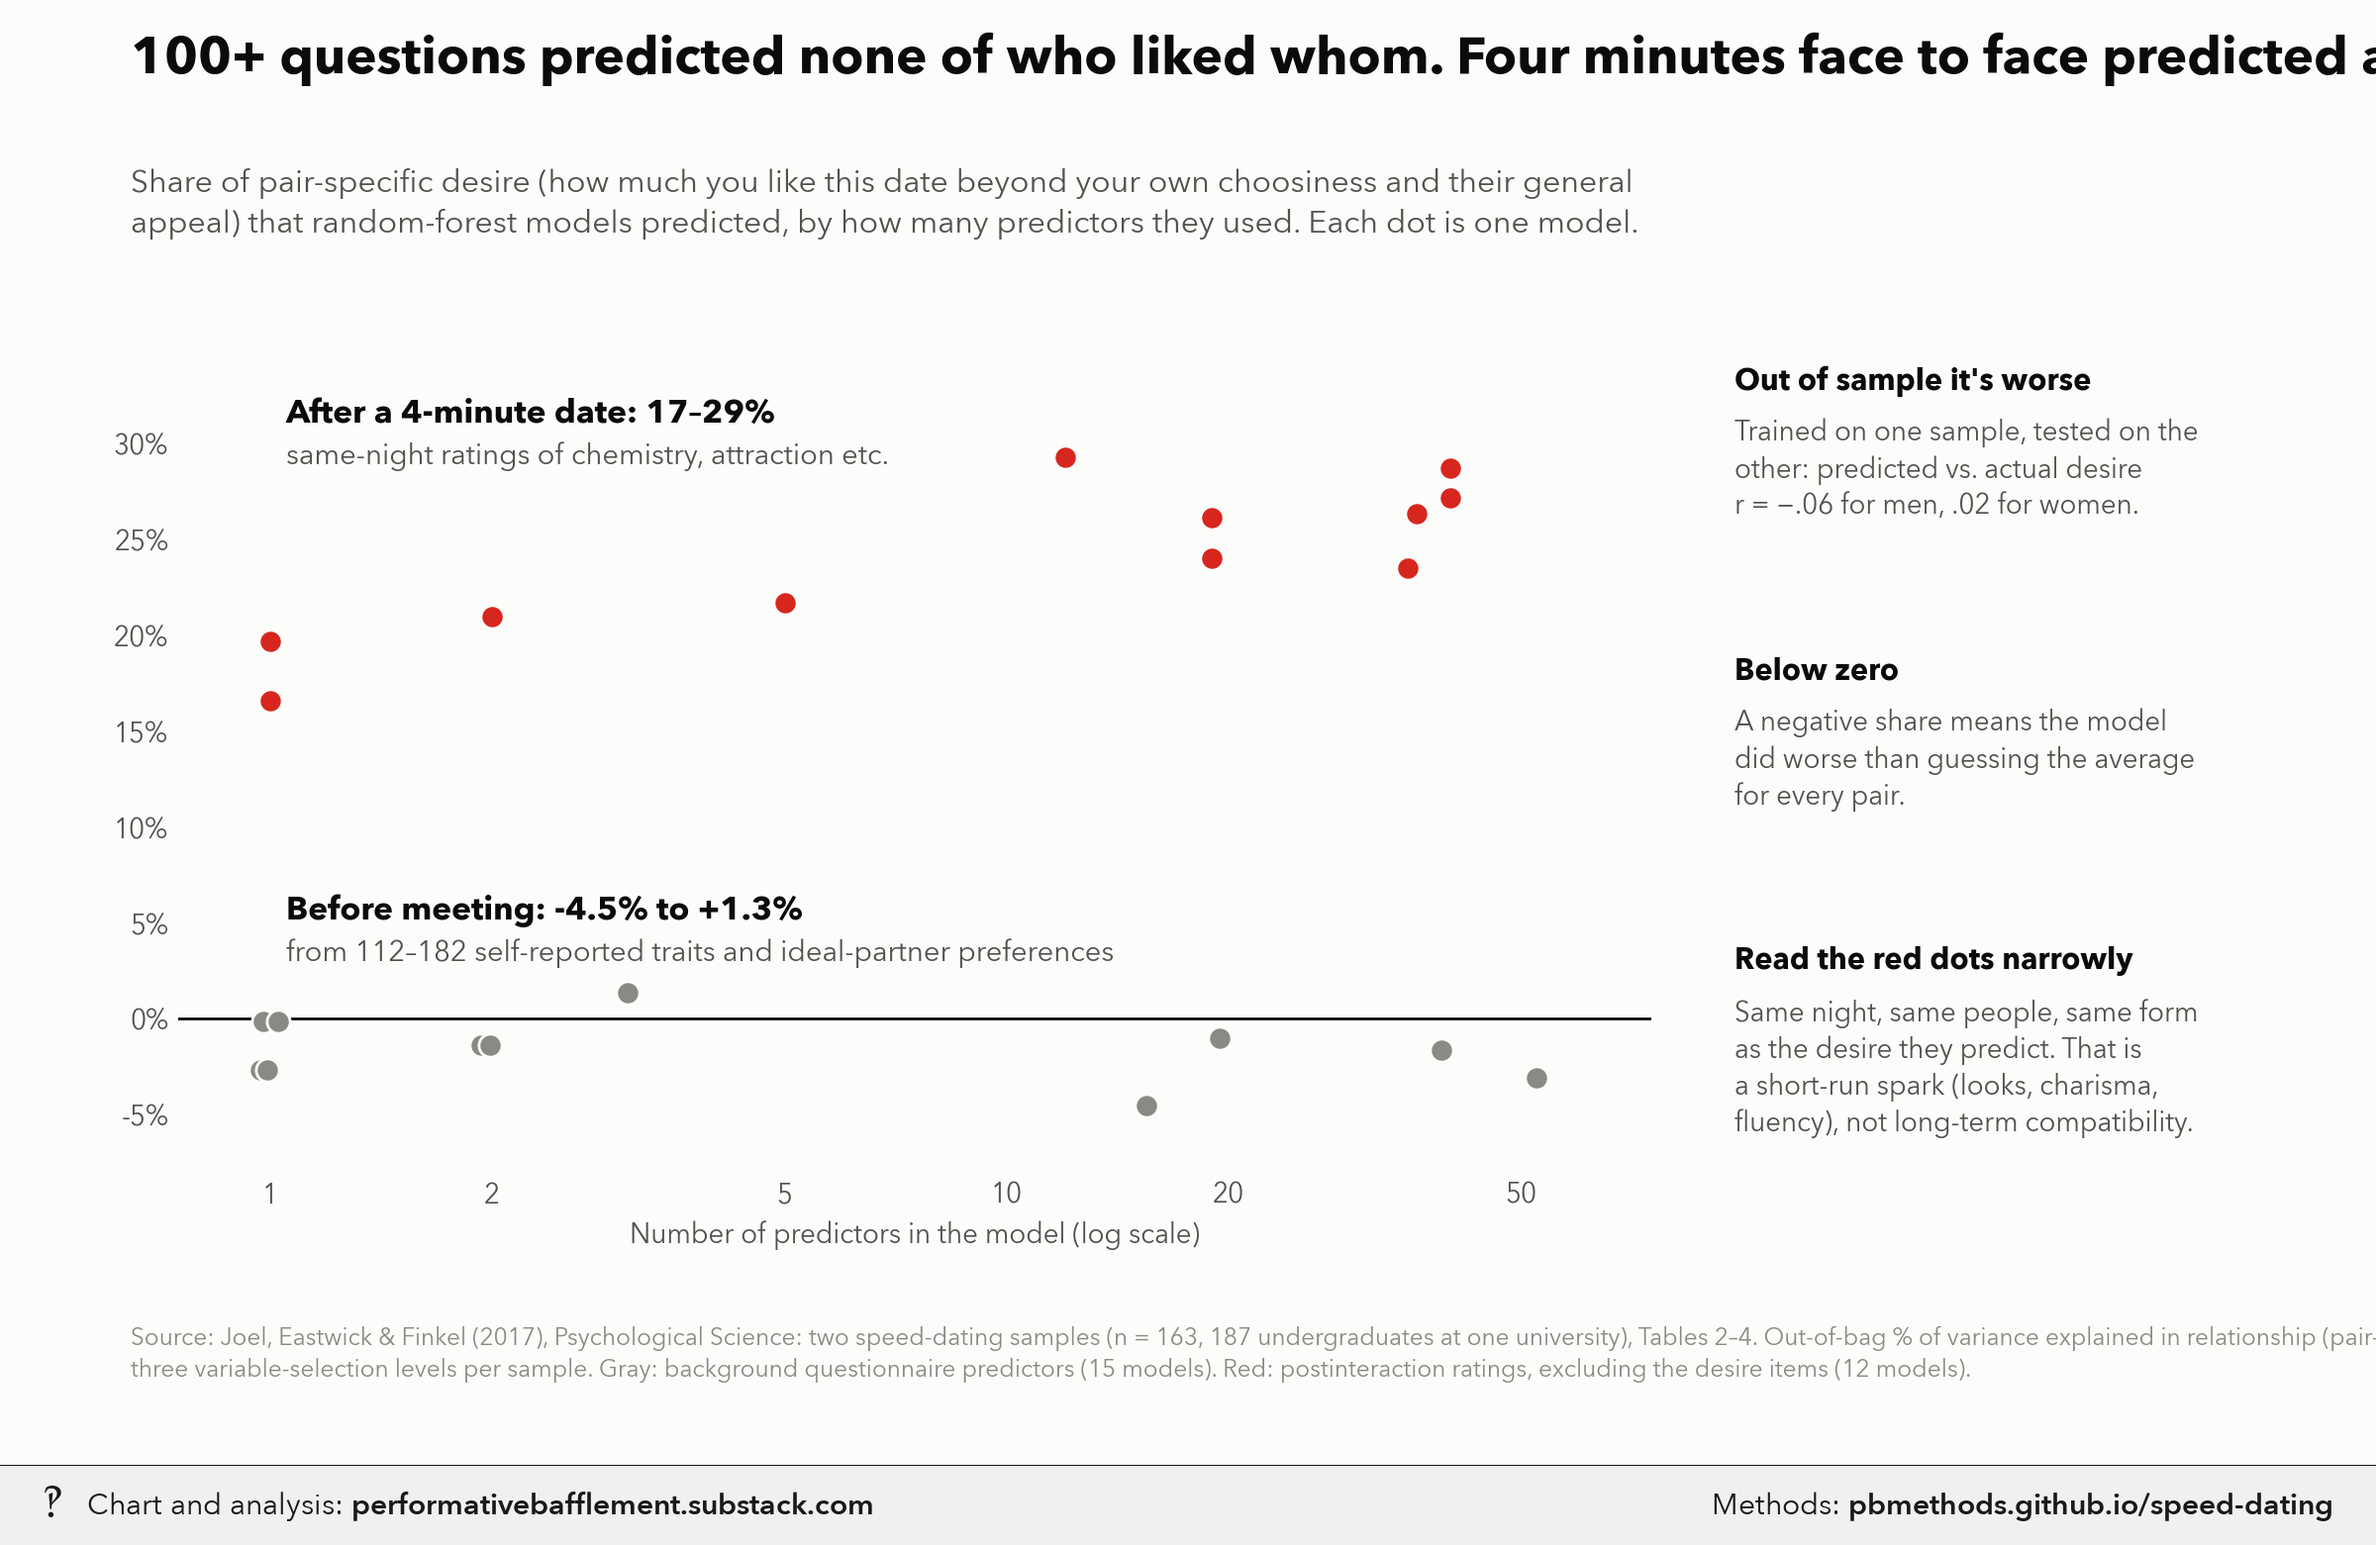
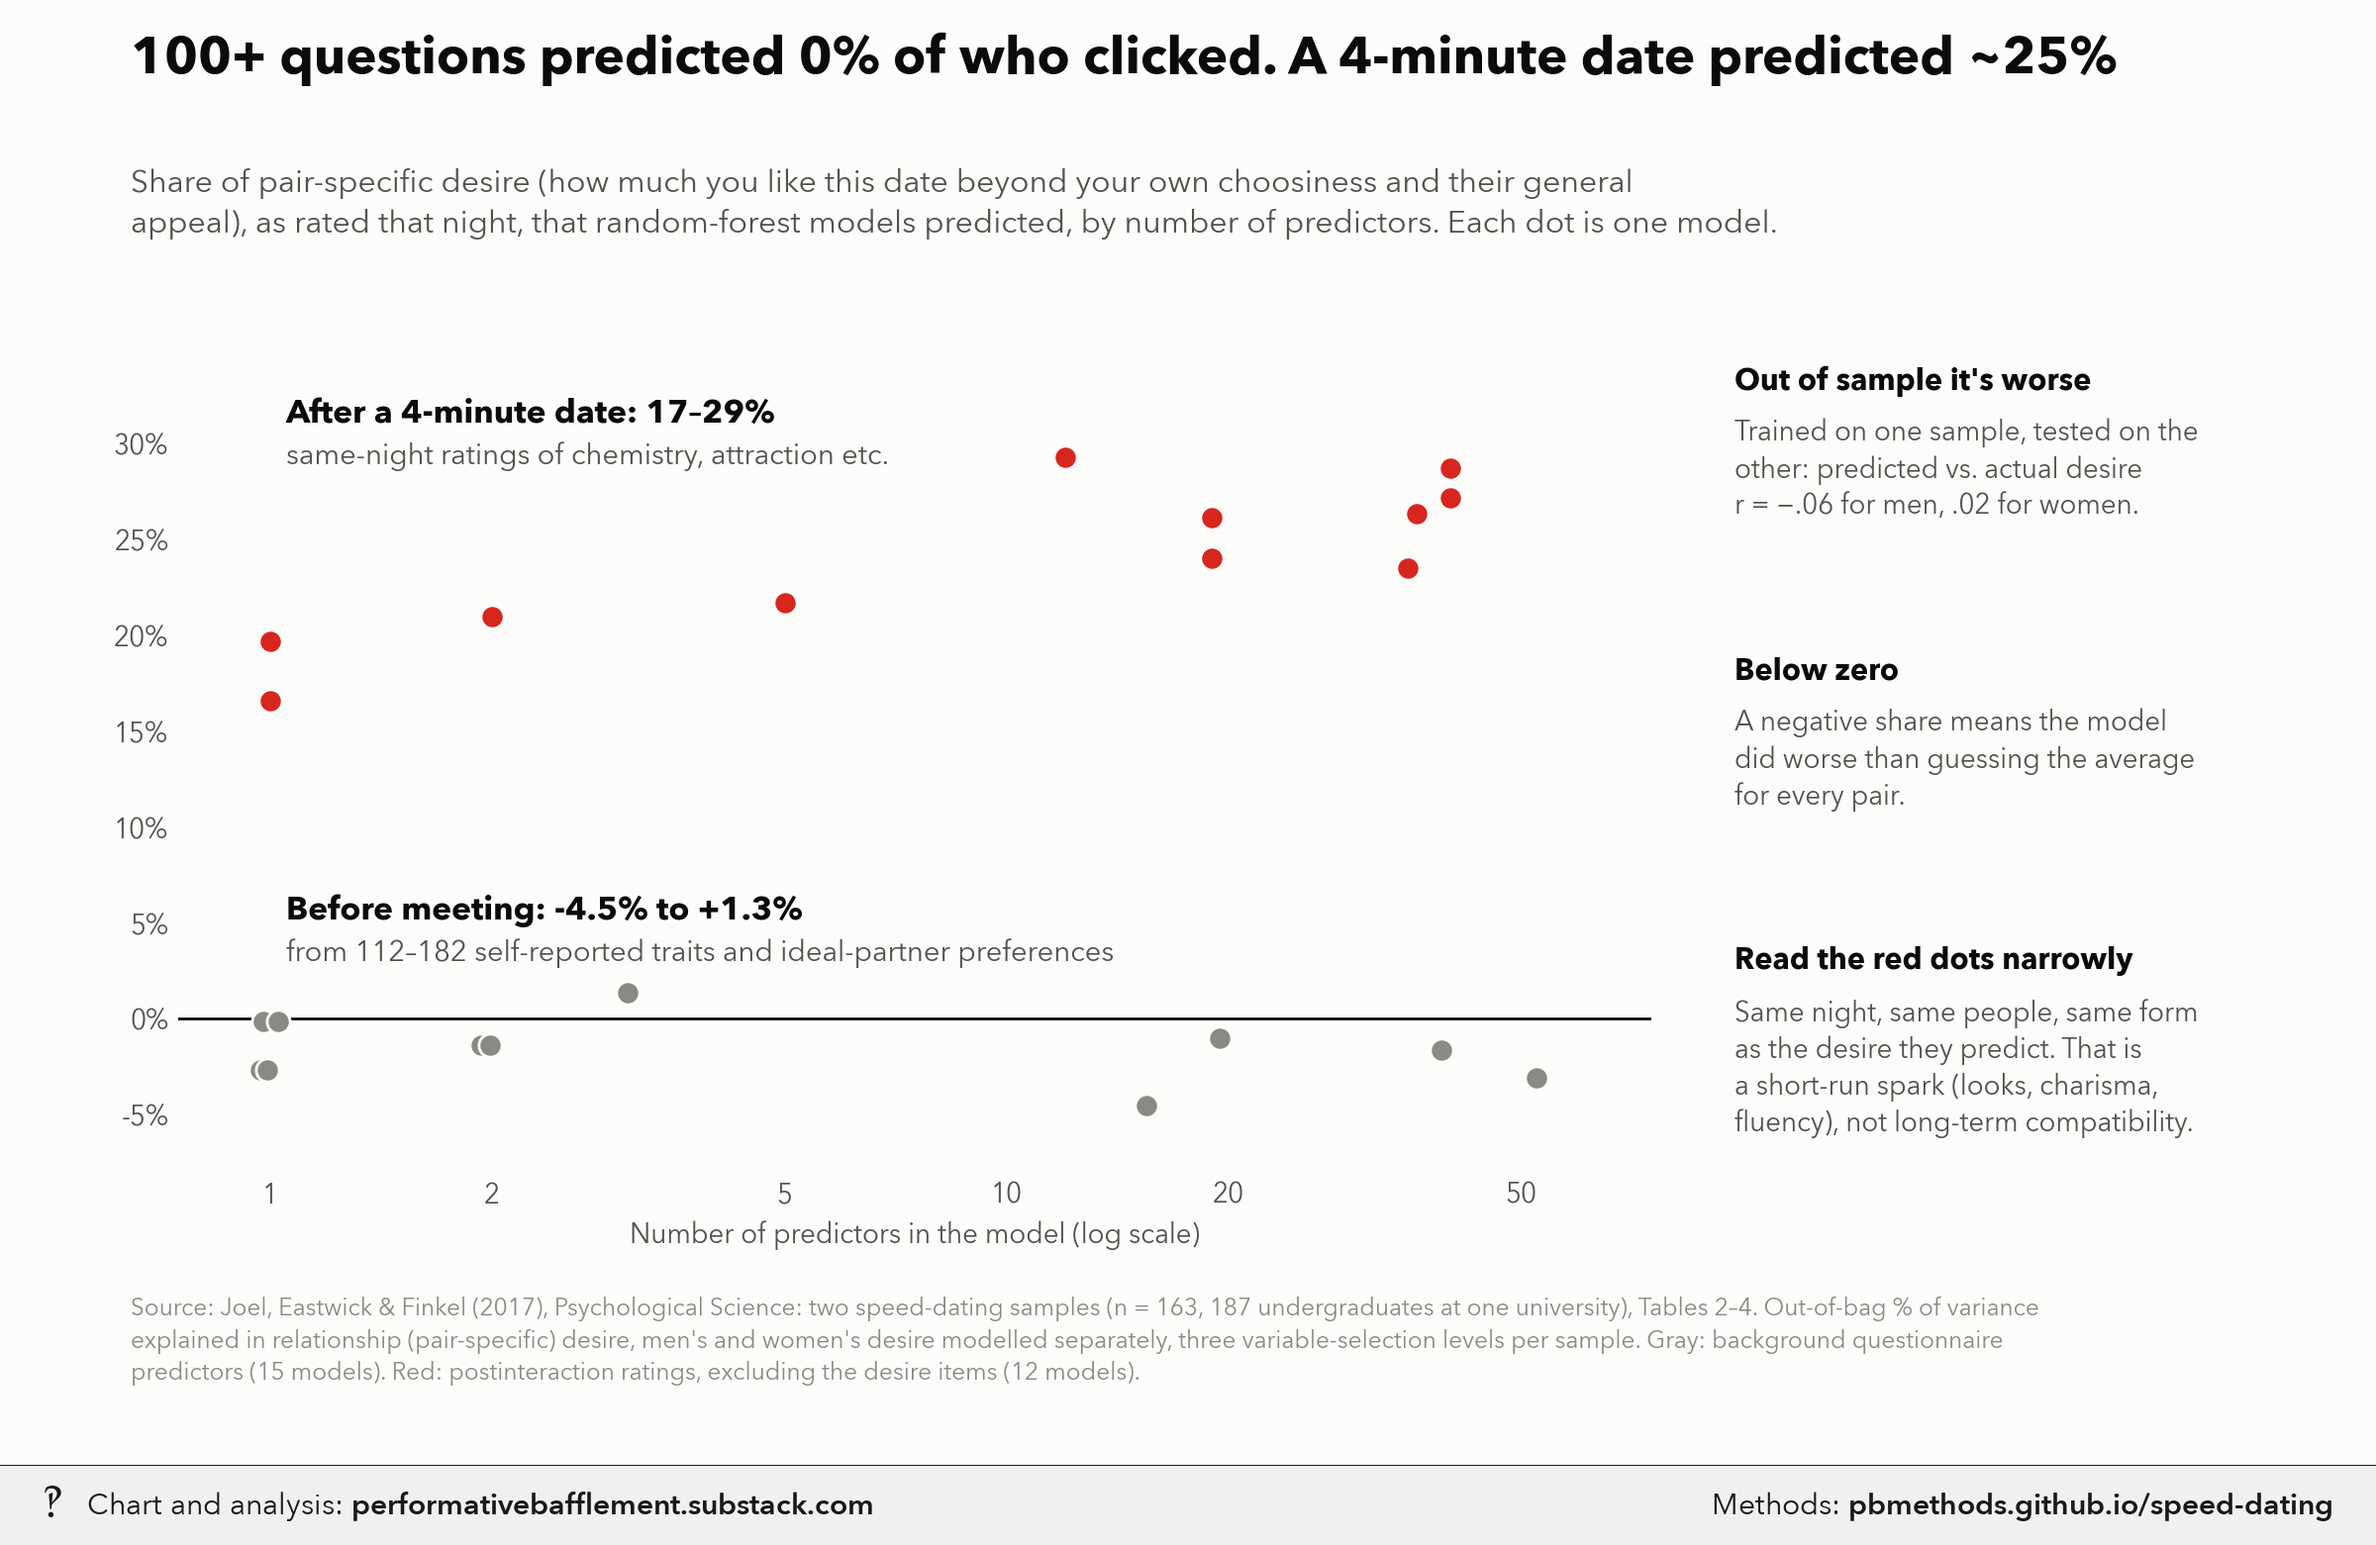
Update speed-dating

diff --git a/speed-dating/index.html b/speed-dating/index.html
@@ -665,6 +665,7 @@ Writes joel2017_tables.csv and addhealth_funnel.csv next to this script, and the
 &quot;&quot;&quot;
 import subprocess
 import sys
+import textwrap
 from pathlib import Path
 
 import matplotlib.pyplot as plt
@@ -719,6 +720,11 @@ def save(fig, name):
     print(&quot;wrote&quot;, wm)
 
 
+def foot(fig, text, y=0.06):
+    lines = textwrap.fill(&quot; &quot;.join(text.split()), 178)
+    fig.text(0.055, y, lines, fontsize=8.8, color=MUTED, ha=&quot;left&quot;, va=&quot;top&quot;, linespacing=1.4)
+
+
 def header(fig, title, sub, y=0.95):
     fig.text(0.055, y, title, fontsize=19, fontweight=&quot;bold&quot;, ha=&quot;left&quot;)
     fig.text(0.055, y - 0.065, sub, fontsize=11.5, color=INK2, ha=&quot;left&quot;, va=&quot;top&quot;, linespacing=1.4)
@@ -729,9 +735,9 @@ def chart_questions(rel):
     q, p = rel[rel.table == &quot;T2&quot;], rel[rel.table == &quot;T4&quot;]
     fig = plt.figure(figsize=(12, 7.4))
     ax = fig.add_axes([0.075, 0.2, 0.62, 0.55])
-    header(fig, &quot;100+ questions predicted none of who liked whom. Four minutes face to face predicted a quarter&quot;,
+    header(fig, &quot;100+ questions predicted 0% of who clicked. A 4-minute date predicted ~25%&quot;,
            &quot;Share of pair-specific desire (how much you like this date beyond your own choosiness and their general\n&quot;
-           &quot;appeal) that random-forest models predicted, by how many predictors they used. Each dot is one model.&quot;)
+           &quot;appeal), as rated that night, that random-forest models predicted, by number of predictors. Each dot is one model.&quot;)
     jit = np.random.default_rng(3).uniform(-0.04, 0.04, len(q))
     ax.scatter(q.n * np.exp(jit), q.pct, s=70, color=pb.GRAYS[0], edgecolor=pb.SURFACE, lw=1, zorder=3)
     ax.scatter(p.n, p.pct, s=70, color=pb.RED, edgecolor=pb.SURFACE, lw=1, zorder=3)
@@ -767,11 +773,10 @@ def chart_questions(rel):
         side.text(0, y, h, fontsize=11, fontweight=&quot;bold&quot;, color=INK, va=&quot;top&quot;, transform=side.transAxes)
         side.text(0, y - 0.065, b, fontsize=10, color=INK2, va=&quot;top&quot;, linespacing=1.35, transform=side.transAxes)
         y -= 0.36
-    fig.text(0.055, 0.06, f&quot;Source: {JOEL}, Tables 2–4. Out-of-bag % of variance explained in relationship &quot;
+    foot(fig, f&quot;Source: {JOEL}, Tables 2–4. Out-of-bag % of variance explained in relationship &quot;
              &quot;(pair-specific) desire, men's and women's desire modelled separately,\nthree variable-selection &quot;
              &quot;levels per sample. Gray: background questionnaire predictors (15 models). Red: postinteraction &quot;
-             &quot;ratings, excluding the desire items (12 models).&quot;, fontsize=8.8, color=MUTED, ha=&quot;left&quot;,
-             linespacing=1.4)
+             &quot;ratings, excluding the desire items (12 models).&quot;, y=0.115)
     save(fig, &quot;speed_dating_questions_vs_date&quot;)
 
 
@@ -813,11 +818,10 @@ def chart_parts():
     ax.set_xlim(0, 100.5)
     ax.set_ylim(-0.45, 1.5)
     ax.axis(&quot;off&quot;)
-    fig.text(0.055, 0.06, f&quot;Source: {JOEL}. Shares from the social-relations model (Table 1), averaged over the two &quot;
+    foot(fig, f&quot;Source: {JOEL}. Shares from the social-relations model (Table 1), averaged over the two &quot;
              &quot;samples; \&quot;predictable\&quot; is the range of random-forest\nout-of-bag variance explained by background &quot;
              &quot;questionnaires across both samples and three variable-selection levels (Table 2). The pair-specific &quot;
-             &quot;piece is desire after a 4-minute date,\nnot long-term compatibility.&quot;, fontsize=8.8, color=MUTED,
-             ha=&quot;left&quot;, linespacing=1.4)
+             &quot;piece is desire after a 4-minute date,\nnot long-term compatibility.&quot;, y=0.115)
     save(fig, &quot;speed_dating_attraction_parts&quot;)
     return m, pred_all
 
@@ -878,10 +882,9 @@ def chart_funnel(f):
     fig = plt.figure(figsize=(12, 7.2))
     men, wom = f[f.sex == &quot;Men&quot;], f[f.sex == &quot;Women&quot;]
     fin = {s: g.share.iloc[-1] for s, g in f.groupby(&quot;sex&quot;)}
-    header(fig, f&quot;Everyone wants the same things. About {fin['Men']:.0f}% of single men and {fin['Women']:.0f}% of &quot;
-           &quot;single women have them all&quot;,
-           &quot;Single Americans aged 24–32: share who clear each bar, cumulatively. Each step roughly halves the pool, &quot;
-           &quot;which is why the\nrealistic strategy is to sort on the shared stuff, then date and see.&quot;)
+    header(fig, f&quot;Only about {fin['Men']:.0f}% of single men and {fin['Women']:.0f}% of single women have it all&quot;,
+           &quot;Single Americans aged 24–32: share who clear each bar, cumulatively. Everyone wants these, few have all of &quot;
+           &quot;them, so the\nrealistic strategy is to sort on the shared stuff, then date and see.&quot;)
     for j, (g, sx) in enumerate([(men, &quot;Men&quot;), (wom, &quot;Women&quot;)]):
         ax = fig.add_axes([0.055 + j * 0.49, 0.17, 0.4, 0.6])
         ax.text(0, 1.04, sx, transform=ax.transAxes, fontsize=13, fontweight=&quot;bold&quot;, color=INK)
@@ -904,7 +907,7 @@ def chart_funnel(f):
     fig.text(0.055, 0.05, &quot;Source: Add Health Wave IV (2008–09, ages 24–32, n = 5,114), weighted (GSWGT4_2). Single = &quot;
              &quot;not married, cohabiting or dating anyone (relationship roster). Looks and personality: one interviewer's &quot;
              &quot;rating,\n4–5 on a 5-point scale. Earnings and height: above the median for all respondents of the same &quot;
-             &quot;sex. Healthy BMI = 18.5 to under 25, measured. Single interviewer ratings are noisy.&quot;,
+             &quot;sex. Healthy BMI = 18.5 to under 25, measured. Single interviewer ratings are noisy. The last bars rest on 17 men and 19 women (unweighted).&quot;,
              fontsize=8.8, color=MUTED, ha=&quot;left&quot;, linespacing=1.4)
     save(fig, &quot;addhealth_have_it_all&quot;)
 

diff --git a/speed-dating/methods.md b/speed-dating/methods.md
@@ -229,6 +229,7 @@ Writes joel2017_tables.csv and addhealth_funnel.csv next to this script, and the
 """
 import subprocess
 import sys
+import textwrap
 from pathlib import Path
 
 import matplotlib.pyplot as plt
@@ -283,6 +284,11 @@ def save(fig, name):
     print("wrote", wm)
 
 
+def foot(fig, text, y=0.06):
+    lines = textwrap.fill(" ".join(text.split()), 178)
+    fig.text(0.055, y, lines, fontsize=8.8, color=MUTED, ha="left", va="top", linespacing=1.4)
+
+
 def header(fig, title, sub, y=0.95):
     fig.text(0.055, y, title, fontsize=19, fontweight="bold", ha="left")
     fig.text(0.055, y - 0.065, sub, fontsize=11.5, color=INK2, ha="left", va="top", linespacing=1.4)
@@ -293,9 +299,9 @@ def chart_questions(rel):
     q, p = rel[rel.table == "T2"], rel[rel.table == "T4"]
     fig = plt.figure(figsize=(12, 7.4))
     ax = fig.add_axes([0.075, 0.2, 0.62, 0.55])
-    header(fig, "100+ questions predicted none of who liked whom. Four minutes face to face predicted a quarter",
+    header(fig, "100+ questions predicted 0% of who clicked. A 4-minute date predicted ~25%",
            "Share of pair-specific desire (how much you like this date beyond your own choosiness and their general\n"
-           "appeal) that random-forest models predicted, by how many predictors they used. Each dot is one model.")
+           "appeal), as rated that night, that random-forest models predicted, by number of predictors. Each dot is one model.")
     jit = np.random.default_rng(3).uniform(-0.04, 0.04, len(q))
     ax.scatter(q.n * np.exp(jit), q.pct, s=70, color=pb.GRAYS[0], edgecolor=pb.SURFACE, lw=1, zorder=3)
     ax.scatter(p.n, p.pct, s=70, color=pb.RED, edgecolor=pb.SURFACE, lw=1, zorder=3)
@@ -331,11 +337,10 @@ def chart_questions(rel):
         side.text(0, y, h, fontsize=11, fontweight="bold", color=INK, va="top", transform=side.transAxes)
         side.text(0, y - 0.065, b, fontsize=10, color=INK2, va="top", linespacing=1.35, transform=side.transAxes)
         y -= 0.36
-    fig.text(0.055, 0.06, f"Source: {JOEL}, Tables 2–4. Out-of-bag % of variance explained in relationship "
+    foot(fig, f"Source: {JOEL}, Tables 2–4. Out-of-bag % of variance explained in relationship "
              "(pair-specific) desire, men's and women's desire modelled separately,\nthree variable-selection "
              "levels per sample. Gray: background questionnaire predictors (15 models). Red: postinteraction "
-             "ratings, excluding the desire items (12 models).", fontsize=8.8, color=MUTED, ha="left",
-             linespacing=1.4)
+             "ratings, excluding the desire items (12 models).", y=0.115)
     save(fig, "speed_dating_questions_vs_date")
 
 
@@ -377,11 +382,10 @@ def chart_parts():
     ax.set_xlim(0, 100.5)
     ax.set_ylim(-0.45, 1.5)
     ax.axis("off")
-    fig.text(0.055, 0.06, f"Source: {JOEL}. Shares from the social-relations model (Table 1), averaged over the two "
+    foot(fig, f"Source: {JOEL}. Shares from the social-relations model (Table 1), averaged over the two "
              "samples; \"predictable\" is the range of random-forest\nout-of-bag variance explained by background "
              "questionnaires across both samples and three variable-selection levels (Table 2). The pair-specific "
-             "piece is desire after a 4-minute date,\nnot long-term compatibility.", fontsize=8.8, color=MUTED,
-             ha="left", linespacing=1.4)
+             "piece is desire after a 4-minute date,\nnot long-term compatibility.", y=0.115)
     save(fig, "speed_dating_attraction_parts")
     return m, pred_all
 
@@ -442,10 +446,9 @@ def chart_funnel(f):
     fig = plt.figure(figsize=(12, 7.2))
     men, wom = f[f.sex == "Men"], f[f.sex == "Women"]
     fin = {s: g.share.iloc[-1] for s, g in f.groupby("sex")}
-    header(fig, f"Everyone wants the same things. About {fin['Men']:.0f}% of single men and {fin['Women']:.0f}% of "
-           "single women have them all",
-           "Single Americans aged 24–32: share who clear each bar, cumulatively. Each step roughly halves the pool, "
-           "which is why the\nrealistic strategy is to sort on the shared stuff, then date and see.")
+    header(fig, f"Only about {fin['Men']:.0f}% of single men and {fin['Women']:.0f}% of single women have it all",
+           "Single Americans aged 24–32: share who clear each bar, cumulatively. Everyone wants these, few have all of "
+           "them, so the\nrealistic strategy is to sort on the shared stuff, then date and see.")
     for j, (g, sx) in enumerate([(men, "Men"), (wom, "Women")]):
         ax = fig.add_axes([0.055 + j * 0.49, 0.17, 0.4, 0.6])
         ax.text(0, 1.04, sx, transform=ax.transAxes, fontsize=13, fontweight="bold", color=INK)
@@ -468,7 +471,7 @@ def chart_funnel(f):
     fig.text(0.055, 0.05, "Source: Add Health Wave IV (2008–09, ages 24–32, n = 5,114), weighted (GSWGT4_2). Single = "
              "not married, cohabiting or dating anyone (relationship roster). Looks and personality: one interviewer's "
              "rating,\n4–5 on a 5-point scale. Earnings and height: above the median for all respondents of the same "
-             "sex. Healthy BMI = 18.5 to under 25, measured. Single interviewer ratings are noisy.",
+             "sex. Healthy BMI = 18.5 to under 25, measured. Single interviewer ratings are noisy. The last bars rest on 17 men and 19 women (unweighted).",
              fontsize=8.8, color=MUTED, ha="left", linespacing=1.4)
     save(fig, "addhealth_have_it_all")
 
